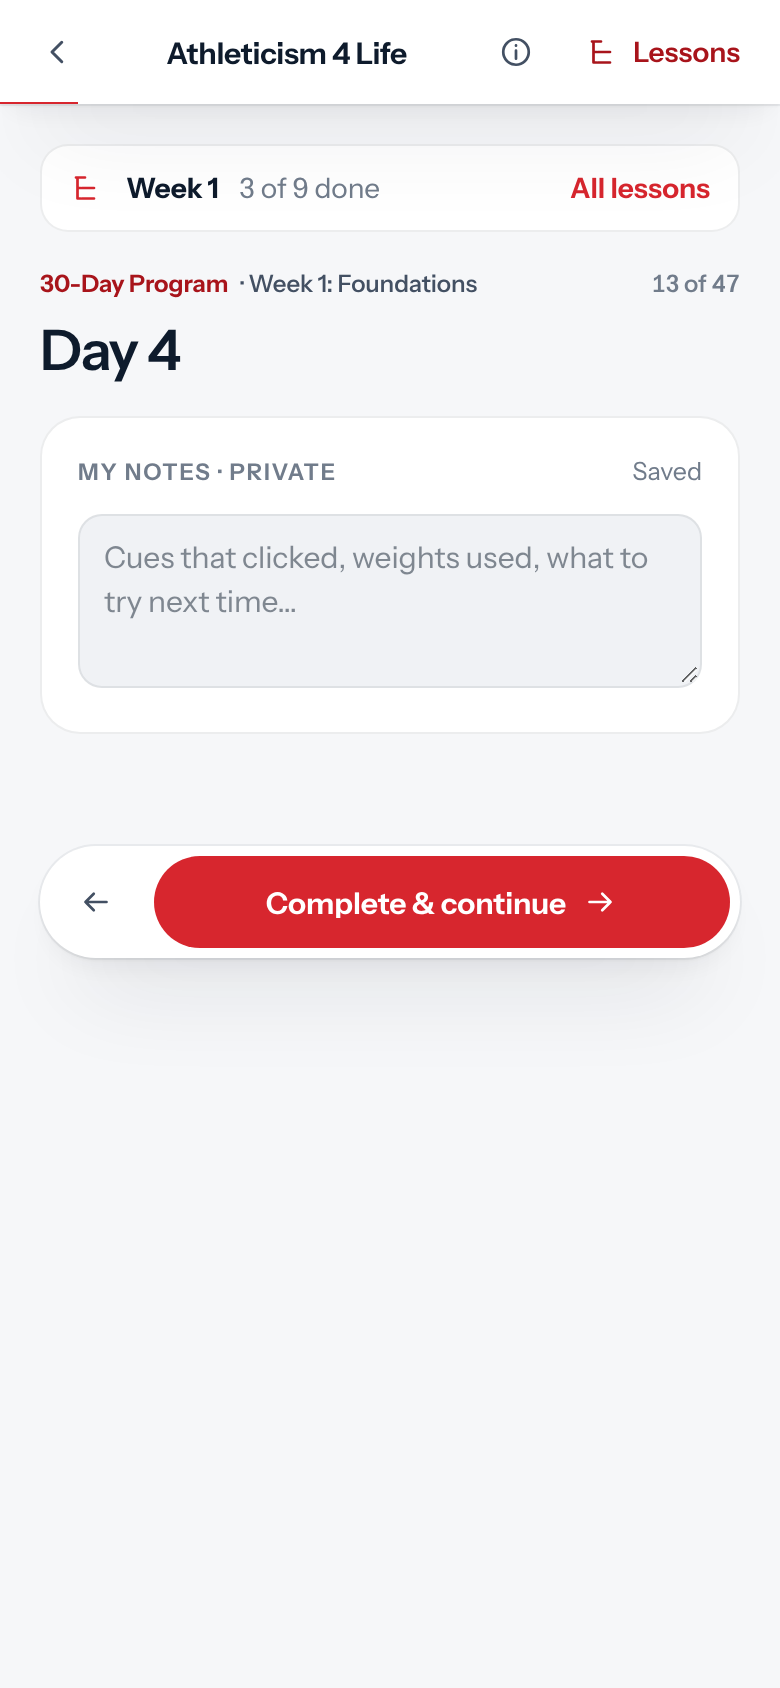
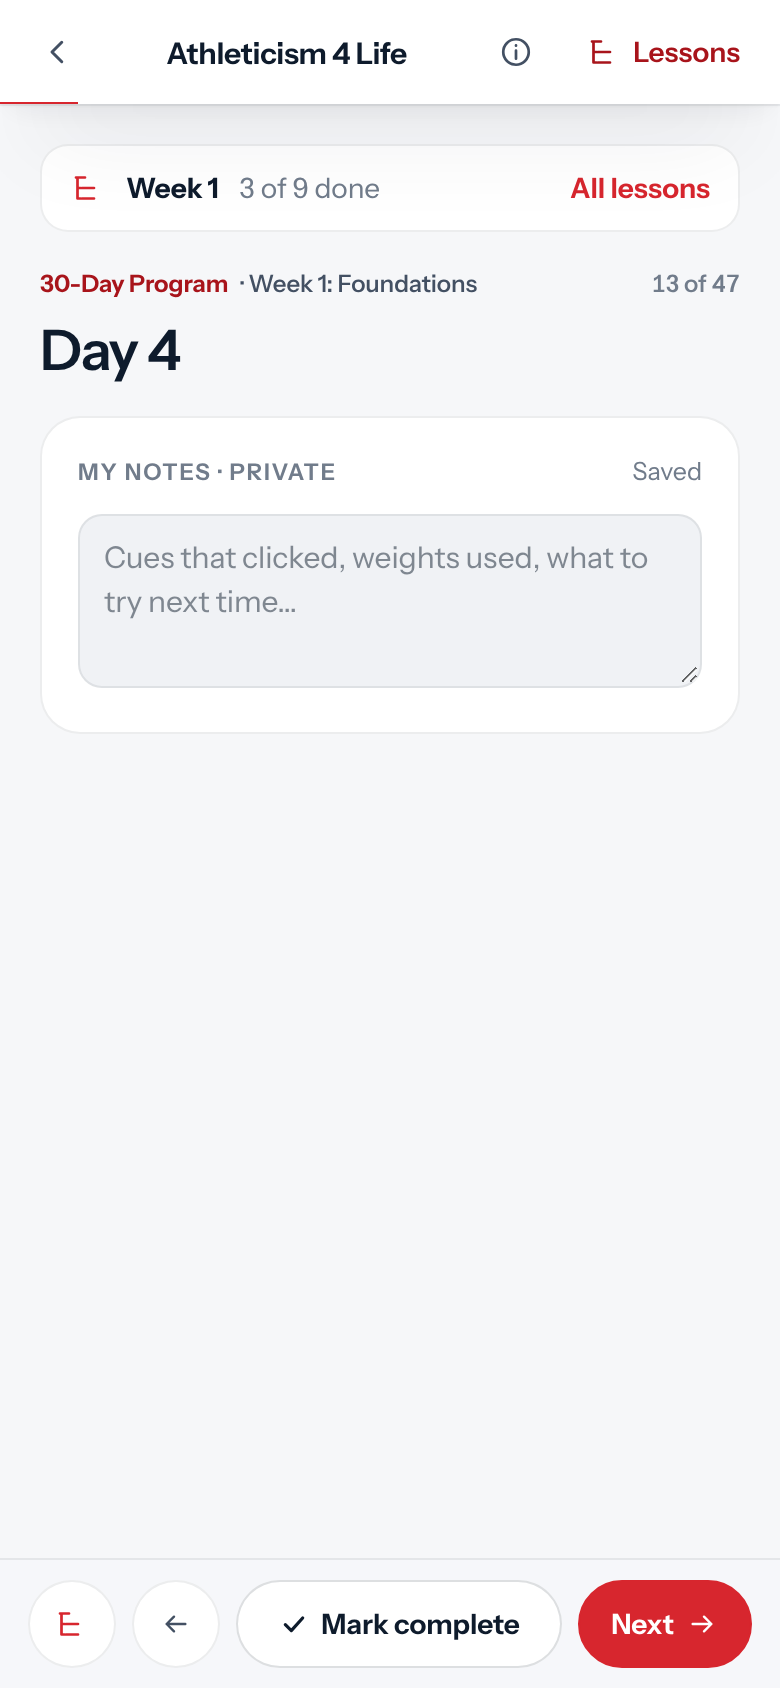
MTK + A4L lessons: complete and next always in the same place
- Desktop: prev · Mark complete · Next pinned at the foot of the lesson
  sidebar. Focus mode shows the same controls as a floating pill.
- Phone: fixed bottom dock (safe-area aware) with Lessons, prev,
  Mark complete, Next; stage padded so nothing is covered.
- Mark complete toggles (Completed / undo) without navigating; Next goes
  to the next lesson or next week/movement; plan days end at My Plan.
- Inline prev/next card and 'Mark as not done' link removed in slim mode.

Claude-Session: https://claude.ai/code/session_01DcsA9G8NKwsF9a1mS4N6Xa

diff --git a/apps/web/src/components/course/CoursePlayer.tsx b/apps/web/src/components/course/CoursePlayer.tsx
@@ -267,8 +267,42 @@ export function CoursePlayer({ data, mode, slim, nextStep }: { data: CoursePageD
           ? { small: isDone ? `${group?.name} finished` : `Finish ${group?.name}`, main: `Then ${nextGroup?.name}: ${nextGroupFirst.title}`, phone: isDone ? "Next chapter" : `Finish ${group?.name}` }
           : { small: isDone ? (multi ? `${group?.name} finished` : "Course finished") : multi ? `Finish ${group?.name}` : "Finish course", main: isDone ? "All done" : "Mark this lesson complete", phone: isDone ? "All done" : "Mark complete" };
 
-  const nav = (onPick?: () => void) => slim ? (
-    <LessonSidebar units={units} activeId={data.activeId} program={data.program.name} backHref={planMode ? "/mtk" : `/programs/${slug}/course`} backLabel={planMode ? "My Plan" : `${data.program.name} home`} pct={pct} shelf={shelf} onPick={onPick} />
+  /* Fixed controls (client: complete + next always in the same place): sidebar foot on desktop, bottom dock on phone. */
+  const nextTarget = next ?? nextGroupFirst;
+  const toggleDone = async () => {
+    if (busy || !node) return;
+    if (isDone) return void undo();
+    setBusy(true);
+    const ok = await markDone("button");
+    setBusy(false);
+    if (ok) toast("Marked complete", { tone: "success" });
+  };
+  const controls = (
+    <div className="jsb-ctl">
+      <button type="button" className="jsb-ctl-step" disabled={!prev || isIntro} onClick={() => prev && go(prev.id)} aria-label={prev ? `Previous: ${prev.title}` : "No previous lesson"}>
+        <Arrow dir="left" />
+      </button>
+      {isIntro ? (
+        <button type="button" className="jsb-ctl-main" data-tone="go" onClick={() => void primary()}>
+          <span>{done.size ? "Resume" : "Begin"}</span><Arrow />
+        </button>
+      ) : (
+        <button type="button" className="jsb-ctl-main" data-done={isDone ? "" : undefined} aria-pressed={isDone} aria-busy={busy || undefined} onClick={() => void toggleDone()}>
+          <Check /><span>{isDone ? "Completed" : "Mark complete"}</span>
+        </button>
+      )}
+      {planCtx && !next ? (
+        <Link href="/mtk" className="jsb-ctl-next"><span>My Plan</span><Arrow /></Link>
+      ) : (
+        <button type="button" className="jsb-ctl-next" disabled={!nextTarget || isIntro} onClick={() => nextTarget && go(nextTarget.id)} aria-label={nextTarget ? `Next: ${nextTarget.title}` : "No next lesson"}>
+          <span>Next</span><Arrow />
+        </button>
+      )}
+    </div>
+  );
+
+  const nav = (onPick?: () => void, footer?: ReactNode) => slim ? (
+    <LessonSidebar units={units} activeId={data.activeId} program={data.program.name} backHref={planMode ? "/mtk" : `/programs/${slug}/course`} backLabel={planMode ? "My Plan" : `${data.program.name} home`} pct={pct} shelf={shelf} onPick={onPick} footer={footer} />
   ) : (
     <CourseNav data={data} groups={groups} done={done} href={(id) => (id === "start" ? `/programs/${slug}/course/start${qs}` : href(id))} planMode={planMode} onPick={onPick} searchRef={searchRef} />
   );
@@ -300,7 +334,7 @@ export function CoursePlayer({ data, mode, slim, nextStep }: { data: CoursePageD
       </Glass>
 
       <div className="crs-body">
-        <aside className="crs-side" aria-label={slim ? "Lessons" : "Curriculum"} inert={focus || undefined}>{nav()}</aside>
+        <aside className="crs-side" aria-label={slim ? "Lessons" : "Curriculum"} inert={focus || undefined}>{nav(undefined, slim && lesson ? controls : undefined)}</aside>
 
         <main className="crs-main" ref={main} id="main">
           <div className="crs-stage">
@@ -407,7 +441,13 @@ export function CoursePlayer({ data, mode, slim, nextStep }: { data: CoursePageD
                 {slim ? <DownloadChips items={parsed.files} /> : <Downloads items={parsed.files} />}
                 {slim && !isIntro && <LessonNotes key={lesson.id} lessonId={lesson.id} />}
 
-                <Glass level="thick" float className="crs-next">
+                {slim && lesson && (
+                  <div className="jsb-dock" aria-label="Lesson controls">
+                    <button type="button" className="jsb-dock-list" aria-label="All lessons" onClick={() => setDrawer("open")}><ListTree /></button>
+                    {controls}
+                  </div>
+                )}
+                {!slim && <Glass level="thick" float className="crs-next">
                   {prev && !isIntro ? (
                     <>
                       <button type="button" className="crs-prev" onClick={() => go(prev.id)} aria-label={`Previous: ${prev.title}`}>
@@ -429,8 +469,8 @@ export function CoursePlayer({ data, mode, slim, nextStep }: { data: CoursePageD
                     <span className="crs-phone-label">{primaryLabel.phone}</span>
                     {next || isIntro || nextGroupFirst ? <Arrow /> : <Check />}
                   </button>
-                </Glass>
-                {isDone && !isIntro && <button type="button" className="crs-undo" onClick={() => void undo()}>Mark as not done</button>}
+                </Glass>}
+                {!slim && isDone && !isIntro && <button type="button" className="crs-undo" onClick={() => void undo()}>Mark as not done</button>}
                 {slim && isDone && !isIntro && <Reflection key={`r-${lesson.id}`} lessonId={lesson.id} lessonTitle={lesson.title} program={data.program.name} question={reflectionFor(data.program.name, lesson.title)} />}
                 {slim && isDone && !isIntro && !next && !planCtx && nextStep}
                 <p className="crs-keys" aria-hidden><span><kbd>←</kbd><kbd>→</kbd>Lessons</span><span><kbd>F</kbd>Focus</span><span><kbd>/</kbd>Search</span></p>

diff --git a/apps/web/src/components/journeys/journeys.css b/apps/web/src/components/journeys/journeys.css
@@ -289,3 +289,24 @@
 .crs-drawer-panel .jsb { flex: 1; height: auto; }
 .crs-drawer-panel .jsb-name { display: none; }
 .crs-drawer-panel .jsb-head { padding-top: 6px; }
+
+/* fixed lesson controls: sidebar foot (desktop) · bottom dock (phone) */
+.jsb-foot { flex: none; border-top: 1px solid var(--line); padding: 12px; background: var(--bg); }
+.jsb-ctl { display: flex; align-items: center; gap: 8px; min-width: 0; flex: 1; }
+:where(.jsb-ctl) :where(button, a) { all: unset; box-sizing: border-box; cursor: pointer; height: 44px; display: inline-flex; align-items: center; justify-content: center; gap: 6px; border-radius: 99px; font: 650 14px/1 var(--font); text-decoration: none; white-space: nowrap; transition: background-color .15s, border-color .15s, opacity .15s; }
+.jsb-ctl svg { width: 16px; height: 16px; flex: none; }
+.jsb-ctl :disabled { opacity: .35; cursor: default; }
+.jsb-ctl-step { flex: none; width: 44px; border: 1px solid var(--line); color: var(--text-2); background: var(--surface); }
+.jsb-ctl-main { flex: 1; min-width: 0; padding: 0 14px; border: 1px solid var(--line-strong, var(--line)); background: var(--surface); color: var(--text); }
+.jsb-ctl-main:hover { border-color: var(--ok); }
+.jsb-ctl-main[data-done] { background: color-mix(in srgb, var(--ok) 14%, transparent); border-color: var(--ok); color: var(--text); }
+.jsb-ctl-main[data-done] svg { color: var(--ok); }
+.jsb-ctl-main[data-tone="go"], .jsb-ctl-next { background: var(--accent); color: #fff; border: 1px solid var(--accent); }
+.jsb-ctl-next { flex: none; padding: 0 16px; }
+.jsb-ctl-next:not(:disabled):hover, .jsb-ctl-main[data-tone="go"]:hover { filter: brightness(1.06); }
+.jsb-dock { position: fixed; left: 0; right: 0; bottom: 0; z-index: var(--z-sheet, 50); display: flex; align-items: center; gap: 8px; padding: 10px 14px calc(10px + env(safe-area-inset-bottom)); background: color-mix(in srgb, var(--bg) 88%, transparent); backdrop-filter: blur(18px); -webkit-backdrop-filter: blur(18px); border-top: 1px solid var(--line); }
+.jsb-dock-list { all: unset; box-sizing: border-box; cursor: pointer; flex: none; width: 44px; height: 44px; border-radius: 99px; display: grid; place-items: center; border: 1px solid var(--line); background: var(--surface); color: var(--accent); }
+.jsb-dock-list svg { width: 18px; height: 18px; }
+@media (min-width: 1024px) { .jsb-dock { display: none; } }
+@media (max-width: 1023px) { .crs[data-slim] .crs-stage { padding-bottom: calc(120px + env(safe-area-inset-bottom)); } }
+@media (min-width: 1024px) { .crs[data-focus] .jsb-dock { display: flex; left: 50%; right: auto; transform: translateX(-50%); width: min(560px, 90vw); bottom: 16px; border: 1px solid var(--line); border-radius: 99px; padding: 8px; } .crs[data-focus] .jsb-dock-list { display: none; } }

diff --git a/apps/web/src/components/journeys/LessonSidebar.tsx b/apps/web/src/components/journeys/LessonSidebar.tsx
@@ -2,7 +2,7 @@
 
 import Image from "next/image";
 import Link from "next/link";
-import { useEffect, useRef, useState } from "react";
+import { useEffect, useRef, useState, type ReactNode } from "react";
 import { Icon, type IconName } from "@/components/ui";
 import type { Unit, UnitCard } from "./units";
 import "./journeys.css";
@@ -49,6 +49,7 @@ export function LessonSidebar({
   pct,
   shelf,
   onPick,
+  footer,
 }: {
   units: Unit[];
   activeId: string;
@@ -58,6 +59,7 @@ export function LessonSidebar({
   pct: number;
   shelf: ShelfLink[];
   onPick?: () => void;
+  footer?: ReactNode;
 }) {
   const path = units.filter((u) => !isShelf(u));
   const activeUnit = units.find((u) => u.rows.some((r) => r.cards.some((c) => c.id === activeId)));
@@ -160,6 +162,7 @@ export function LessonSidebar({
           </div>
         </nav>
       )}
+      {footer && <div className="jsb-foot">{footer}</div>}
     </div>
   );
 }
